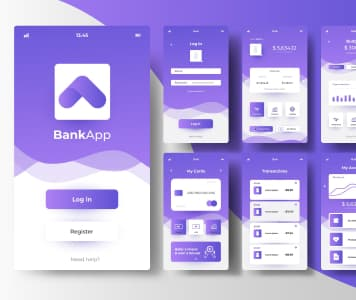
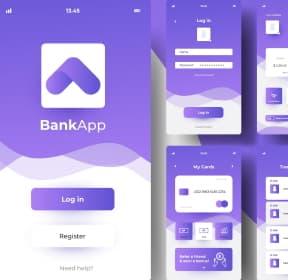
commit message

diff --git a/index.html b/index.html
@@ -327,7 +327,30 @@
           <ul class="card-set">
             <li class="item">
               <div class="open-card">
-                <img src="./images/img4.jpg" alt="Banking App" width="360" />
+                <picture>
+                  <source
+                    srcset="
+                      ./images/des-optimisate/banking-des2x.jpg 2x,
+                      ./images/des-optimisate/banking-des1x.jpg 1x
+                    "
+                    media="(min-width:1158px)"
+                  />
+                  <source
+                    srcset="
+                      ./images/tab-optimisate/banking-tab2x.jpg 2x,
+                      ./images/tab-optimisate/banking-tab1x.jpg 1x
+                    "
+                    media="(min-width:768px)"
+                  />
+                  <source
+                    srcset="
+                      ./images/mob-optimisate/banking-mob2x.jpg 2x,
+                      ./images/mob-optimisate/banking-mob1x.jpg 1x
+                    "
+                    media="(min-width:320px)"
+                  />
+                  <img src="./images/img4.jpg" alt="Banking App" width="360" />
+                </picture>
                 <p class="new-information">
                   - 14 Stylish and User-Friendly App Design Concepts · Task
                   Manager App · Calorie Tracker App · Exotic Fruit Ecommerce App
@@ -339,13 +362,37 @@
                 <p class="cart-content">App</p>
               </div>
             </li>
+
             <li class="item">
               <div class="open-card">
-                <img
-                  src="./images/img5.jpg"
-                  alt="Cashless Payment"
-                  width="360"
-                />
+                <picture>
+                  <source
+                    srcset="
+                      ./images/des-optimisate/cashless-des2x.jpg 2x,
+                      ./images/des-optimisate/cashless-des1x.jpg 1x
+                    "
+                    media="(min-width:1158px)"
+                  />
+                  <source
+                    srcset="
+                      ./images/tab-optimisate/cashless-tab2x.jpg 2x,
+                      ./images/tab-optimisate/cashless-tab1x.jpg 1x
+                    "
+                    media="(min-width:768px)"
+                  />
+                  <source
+                    srcset="
+                      ./images/mob-optimisate/cashless-mob2x.jpg 2x,
+                      ./images/mob-optimisate/cashless-mob1x.jpg 1x
+                    "
+                    media="(min-width:320px)"
+                  />
+                  <img
+                    src="./images/img5.jpg"
+                    alt="Cashless Payment"
+                    width="360"
+                  />
+                </picture>
                 <p class="new-information">
                   - 14 Stylish and User-Friendly App Design Concepts · Task
                   Manager App · Calorie Tracker App · Exotic Fruit Ecommerce App
@@ -357,9 +404,37 @@
                 <p class="cart-content">Marketing</p>
               </div>
             </li>
+
             <li class="item">
               <div class="open-card">
-                <img src="./images/img6.jpg" alt="Meditation App" width="360" />
+                <picture>
+                  <source
+                    srcset="
+                      ./images/des-optimisate/meditation-des2x.jpg 2x,
+                      ./images/des-optimisate/meditation-des1x.jpg 1x
+                    "
+                    media="(min-width:1158px)"
+                  />
+                  <source
+                    srcset="
+                      ./images/tab-optimisate/meditation-tab2x.jpg 2x,
+                      ./images/tab-optimisate/meditation-tab1x.jpg 1x
+                    "
+                    media="(min-width:768px)"
+                  />
+                  <source
+                    srcset="
+                      ./images/mob-optimisate/meditation2x.jpg 2x,
+                      ./images/mob-optimisate/meditation1x.jpg 1x
+                    "
+                    media="(min-width:320px)"
+                  />
+                  <img
+                    src="./images/img6.jpg"
+                    alt="Meditation App"
+                    width="360"
+                  />
+                </picture>
                 <p class="new-information">
                   - 14 Stylish and User-Friendly App Design Concepts · Task
                   Manager App · Calorie Tracker App · Exotic Fruit Ecommerce App
@@ -371,9 +446,33 @@
                 <p class="cart-content">App</p>
               </div>
             </li>
+
             <li class="item">
               <div class="open-card">
-                <img src="./images/img7.jpg" alt="Taxi Service" width="360" />
+                <picture>
+                  <source
+                    srcset="
+                      ./images/des-optimisate/taxi-des2x.jpg 2x,
+                      ./images/des-optimisate/taxi-des1x.jpg 1x
+                    "
+                    media="(min-width:1158px)"
+                  />
+                  <source
+                    srcset="
+                      ./images/tab-optimisate/taxi-tab2x.jpg 2x,
+                      ./images/tab-optimisate/taxi-tab1x.jpg 1x
+                    "
+                    media="(min-width:768px)"
+                  />
+                  <source
+                    srcset="
+                      ./images/mob-optimisate/taxi-mob2x.jpg 2x,
+                      ./images/mob-optimisate/taxi-mob1x.jpg 1x
+                    "
+                    media="(min-width:320px)"
+                  />
+                  <img src="./images/img7.jpg" alt="Taxi Service" width="360" />
+                </picture>
                 <p class="new-information">
                   - 14 Stylish and User-Friendly App Design Concepts · Task
                   Manager App · Calorie Tracker App · Exotic Fruit Ecommerce App
@@ -385,13 +484,37 @@
                 <p class="cart-content">Marketing</p>
               </div>
             </li>
+
             <li class="item">
               <div class="open-card">
-                <img
-                  src="./images/img8.jpg"
-                  alt="Screen Illustrations"
-                  width="360"
-                />
+                <picture>
+                  <source
+                    srcset="
+                      ./images/des-optimisate/screen-des2x.jpg 2x,
+                      ./images/des-optimisate/screen-des1x.jpg 1x
+                    "
+                    media="(min-width:1158px)"
+                  />
+                  <source
+                    srcset="
+                      ./images/tab-optimisate/screen-tab2x.jpg 2x,
+                      ./images/tab-optimisate/screen-tab1x.jpg 1x
+                    "
+                    media="(min-width:768px)"
+                  />
+                  <source
+                    srcset="
+                      ./images/mob-optimisate/screen-mob2x.jpg 2x,
+                      ./images/mob-optimisate/screen-mob1x.jpg 1x
+                    "
+                    media="(min-width:320px)"
+                  />
+                  <img
+                    src="./images/img8.jpg"
+                    alt="Screen Illustrations"
+                    width="360"
+                  />
+                </picture>
                 <p class="new-information">
                   - 14 Stylish and User-Friendly App Design Concepts · Task
                   Manager App · Calorie Tracker App · Exotic Fruit Ecommerce App
@@ -403,9 +526,37 @@
                 <p class="cart-content">Design</p>
               </div>
             </li>
+
             <li class="item">
               <div class="open-card">
-                <img src="./images/img9.jpg" alt="Online Courses" width="360" />
+                <picture>
+                  <source
+                    srcset="
+                      ./images/des-optimisate/online-des2x.jpg 2x,
+                      ./images/des-optimisate/online-des1x.jpg 1x
+                    "
+                    media="(min-width:1158px)"
+                  />
+                  <source
+                    srcset="
+                      ./images/tab-optimisate/online-tab2x.jpg 2x,
+                      ./images/tab-optimisate/online-tab1x.jpg 1x
+                    "
+                    media="(min-width:768px)"
+                  />
+                  <source
+                    srcset="
+                      ./images/mob-optimisate/online-mob2x.jpg 2x,
+                      ./images/mob-optimisate/online-mob1x.jpg 1x
+                    "
+                    media="(min-width:320px)"
+                  />
+                  <img
+                    src="./images/img9.jpg"
+                    alt="Online Courses"
+                    width="360"
+                  />
+                </picture>
                 <p class="new-information">
                   - 14 Stylish and User-Friendly App Design Concepts · Task
                   Manager App · Calorie Tracker App · Exotic Fruit Ecommerce App
